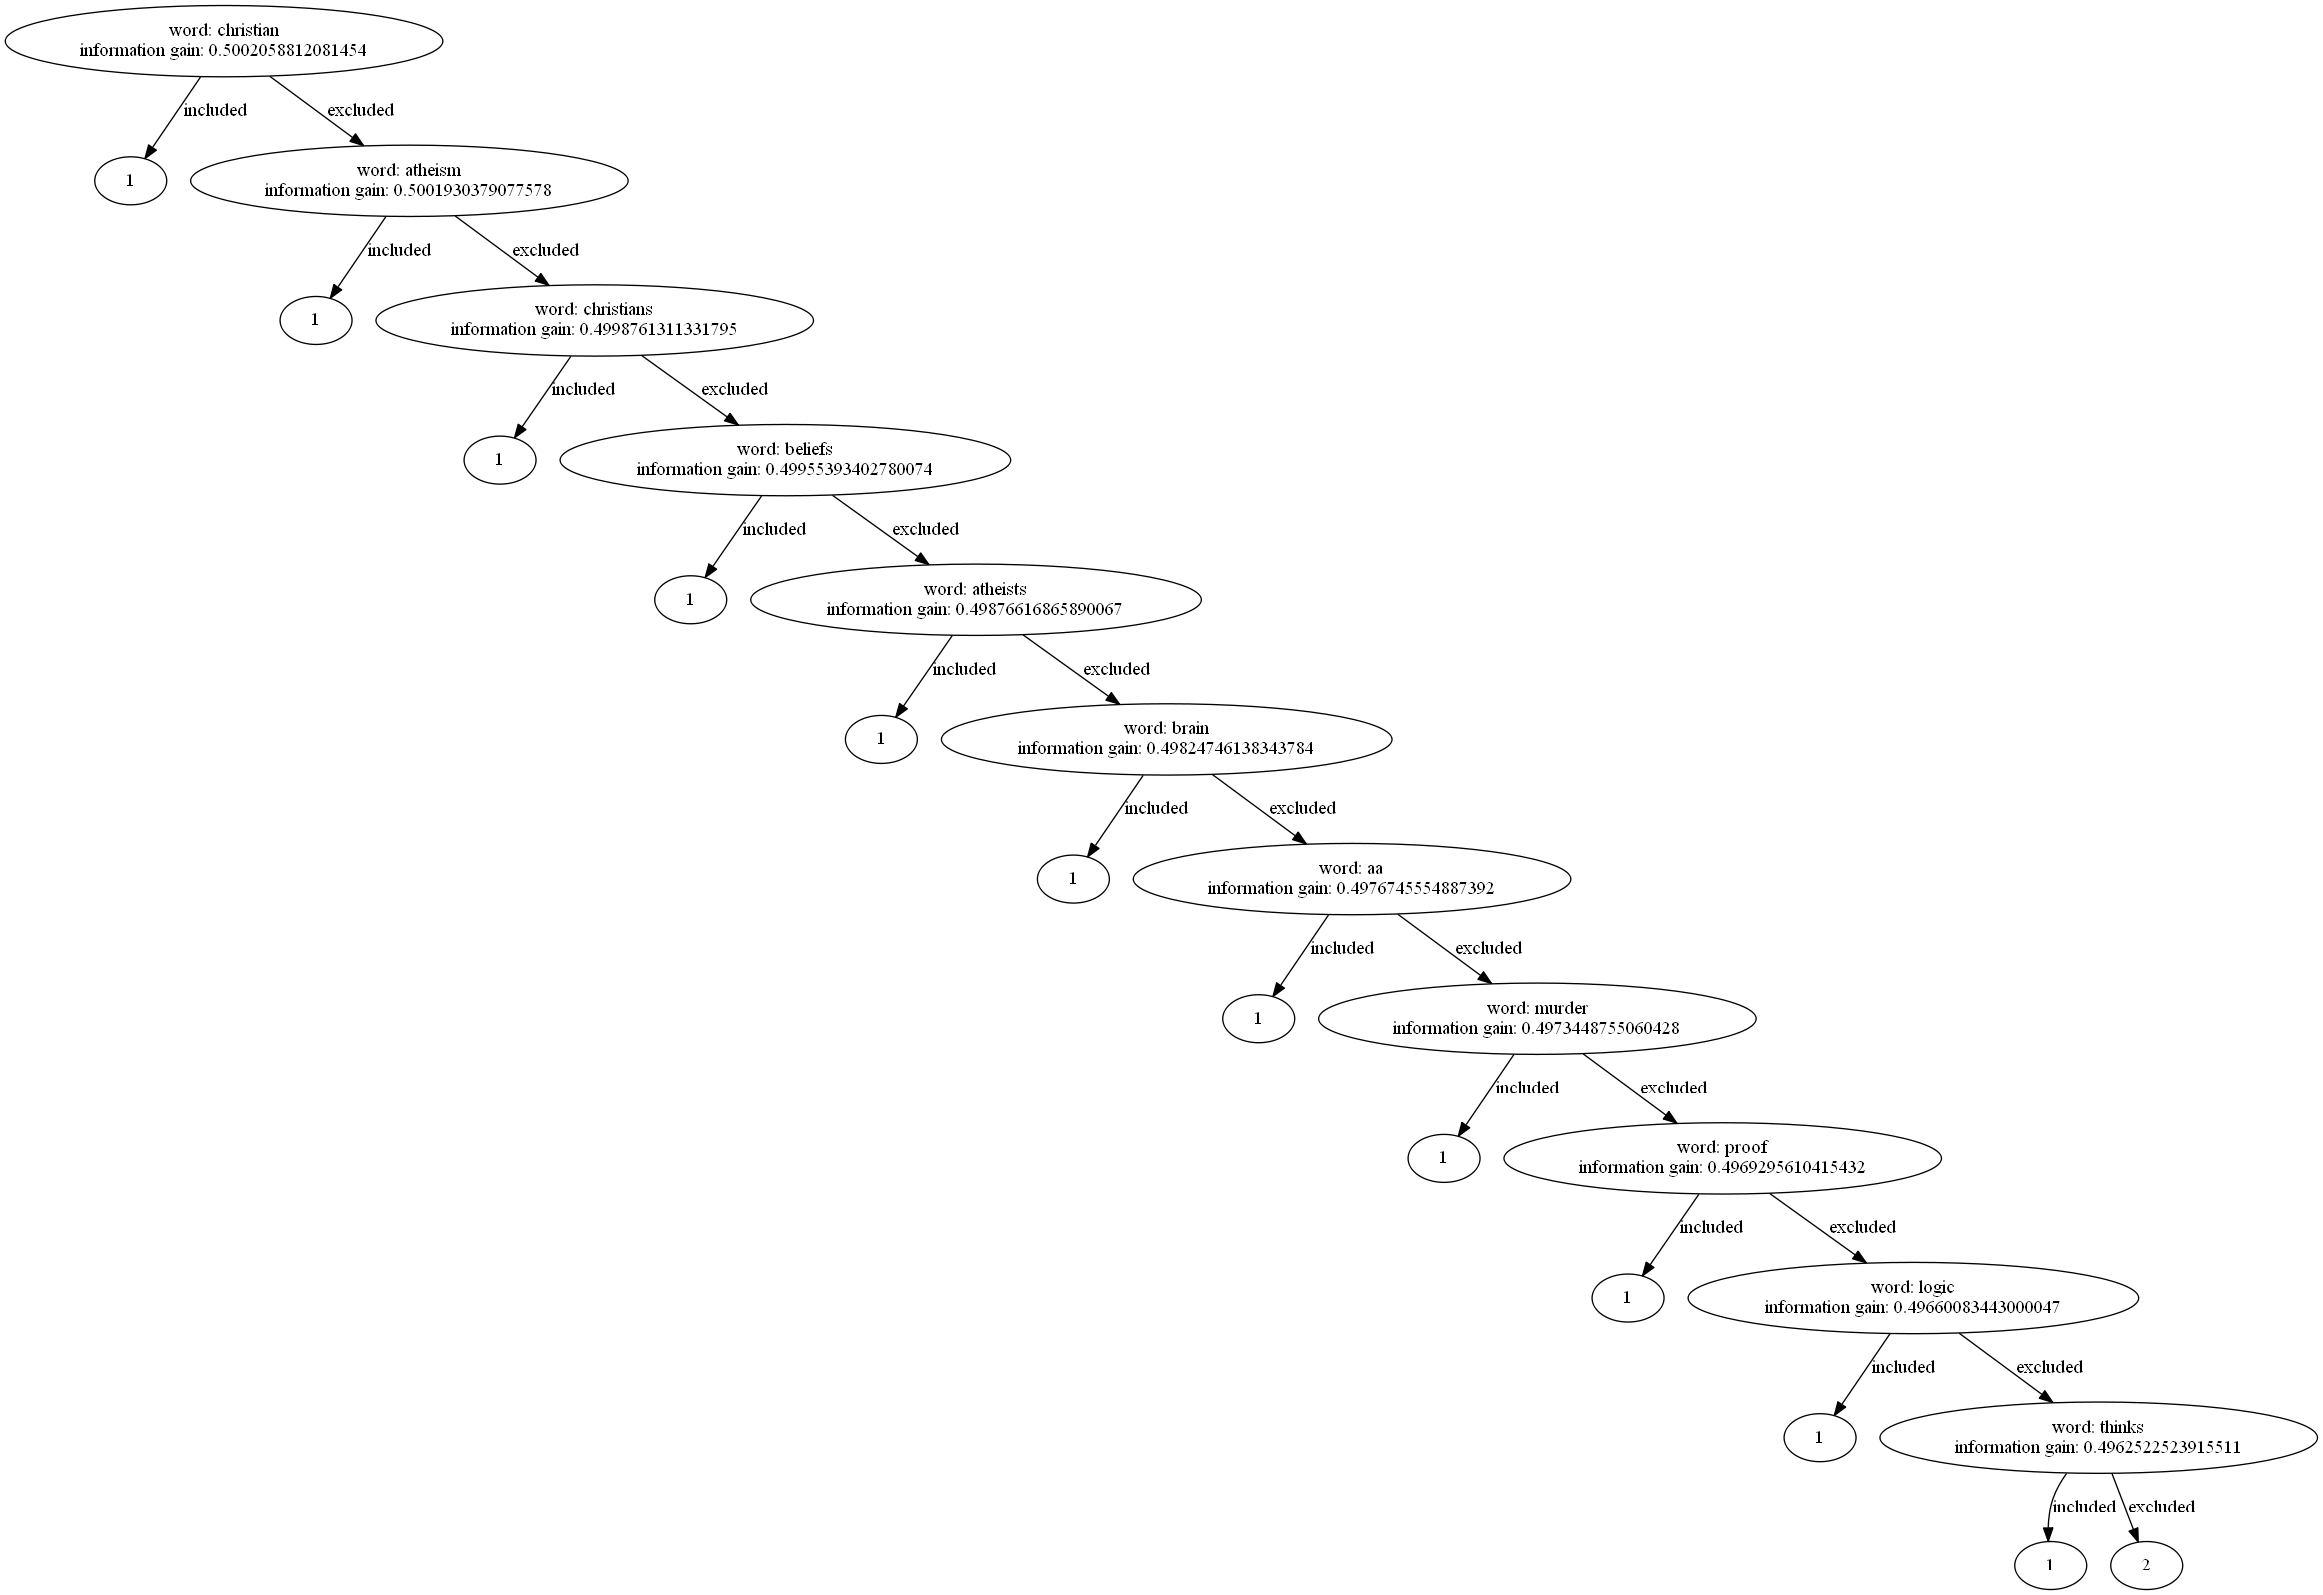
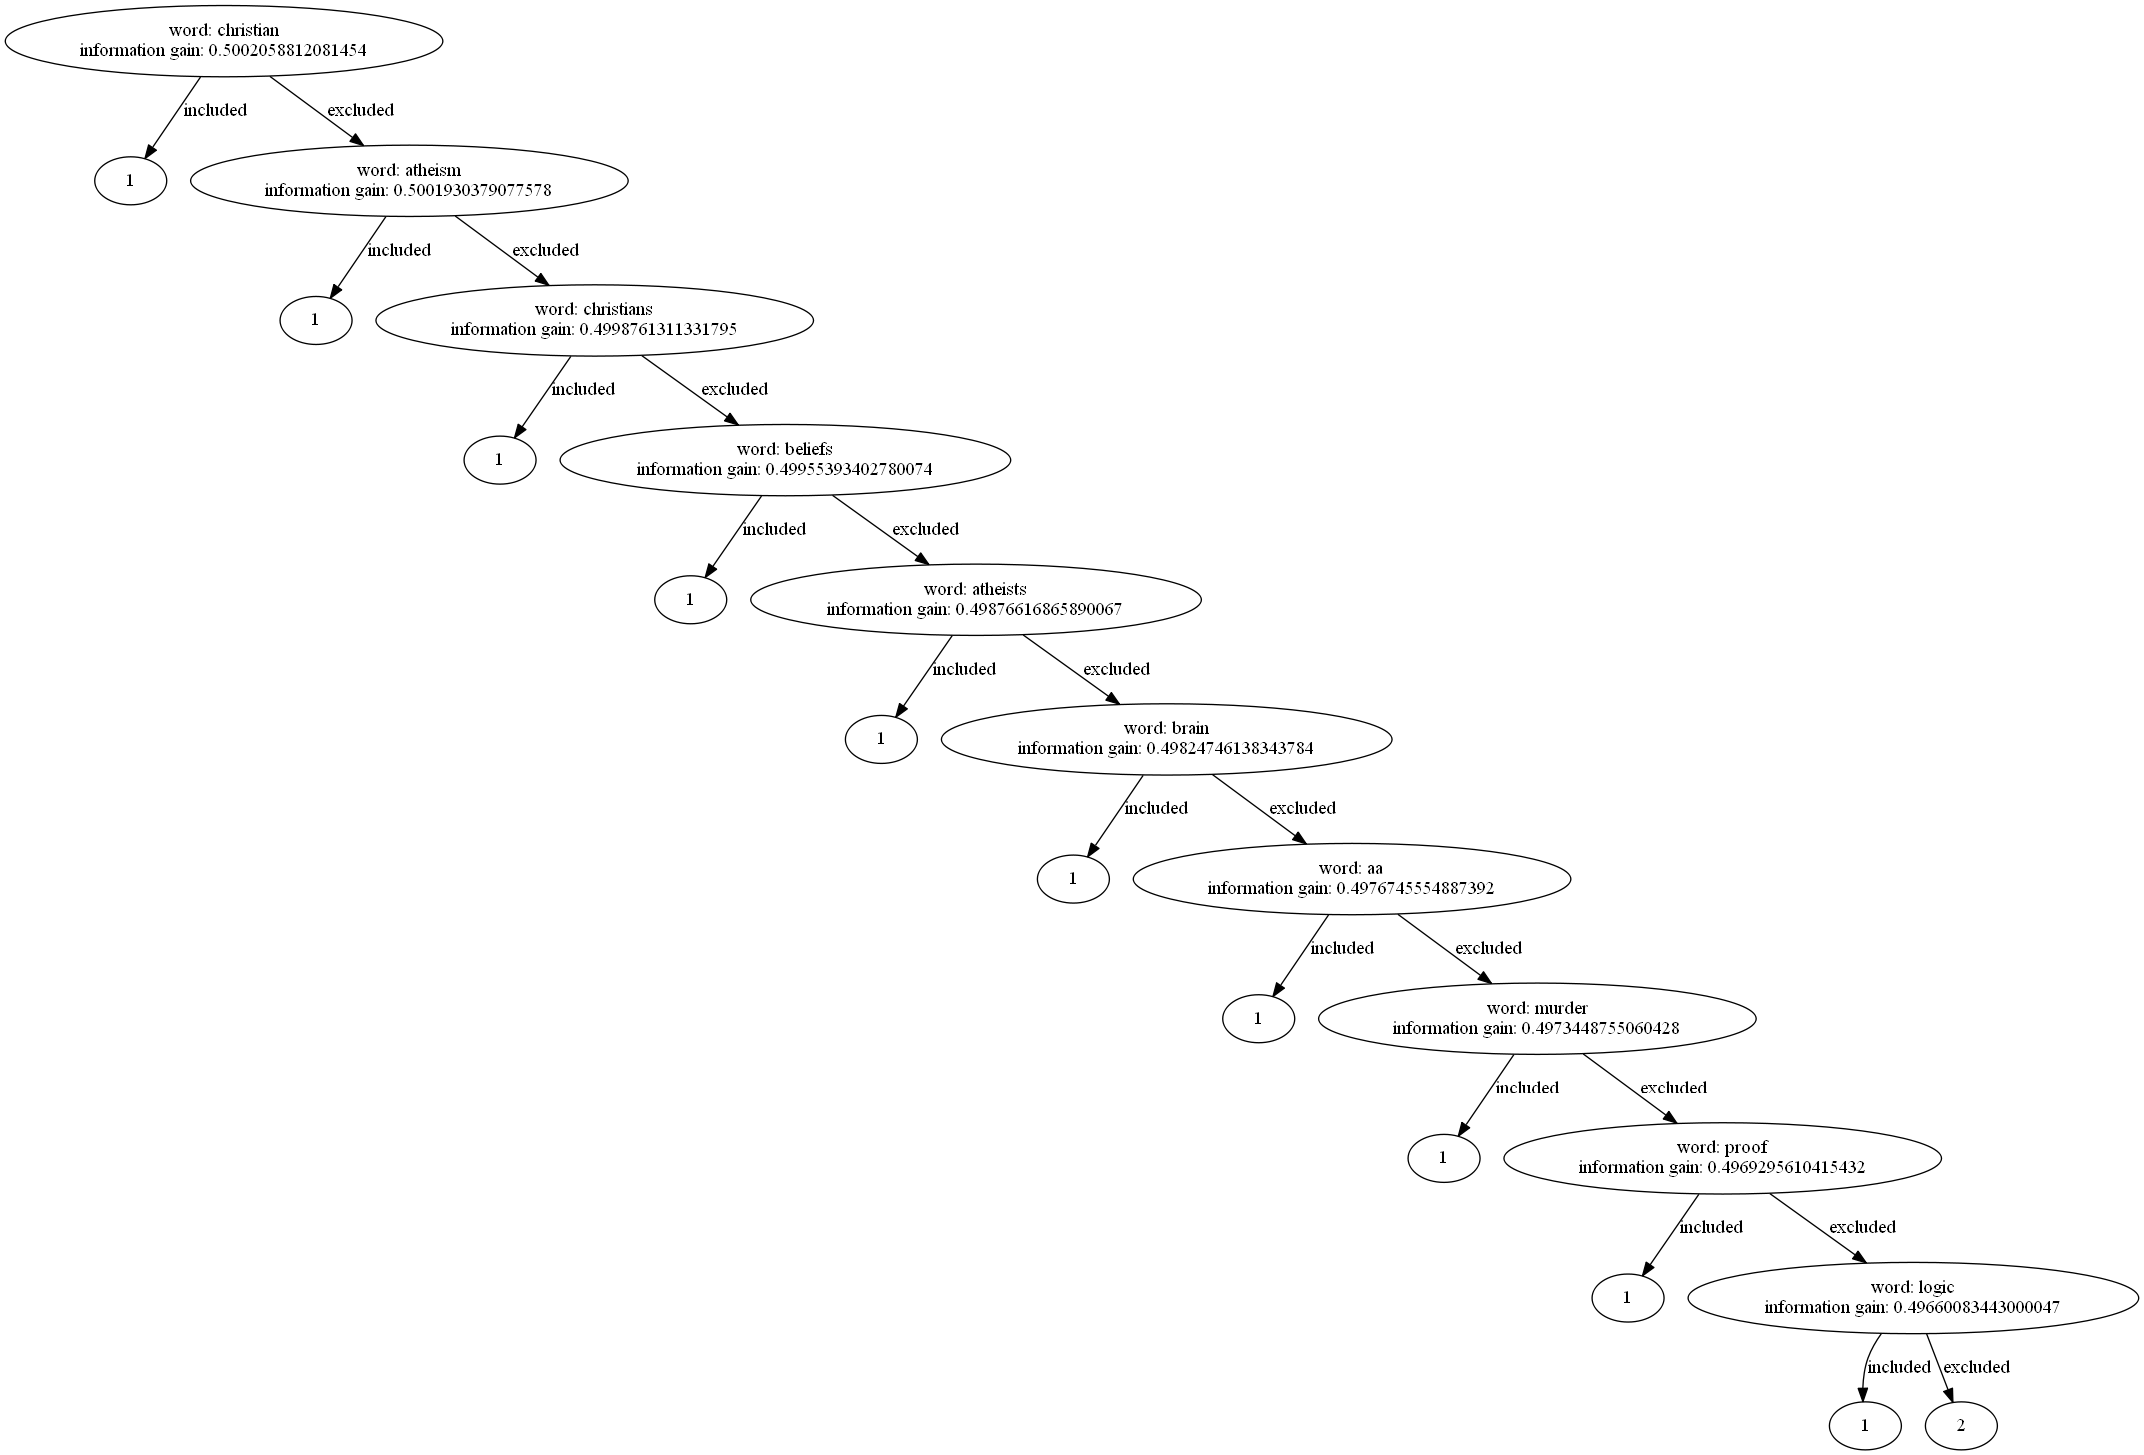
small fixes

Changed region(s): [[0.0, 0.0, 1.0, 1.0]]

diff --git a/A2/data_io.py b/A2/data_io.py
@@ -71,7 +71,7 @@ def build_tree(root, tree_size, parent=None, edge=None):
     if root is None:
         return
 
-    if root.leaf or root.order > tree_size:
+    if root.leaf or root.order >= tree_size:
         return Node(id(root),
                     parent=parent,
                     edge=edge,
